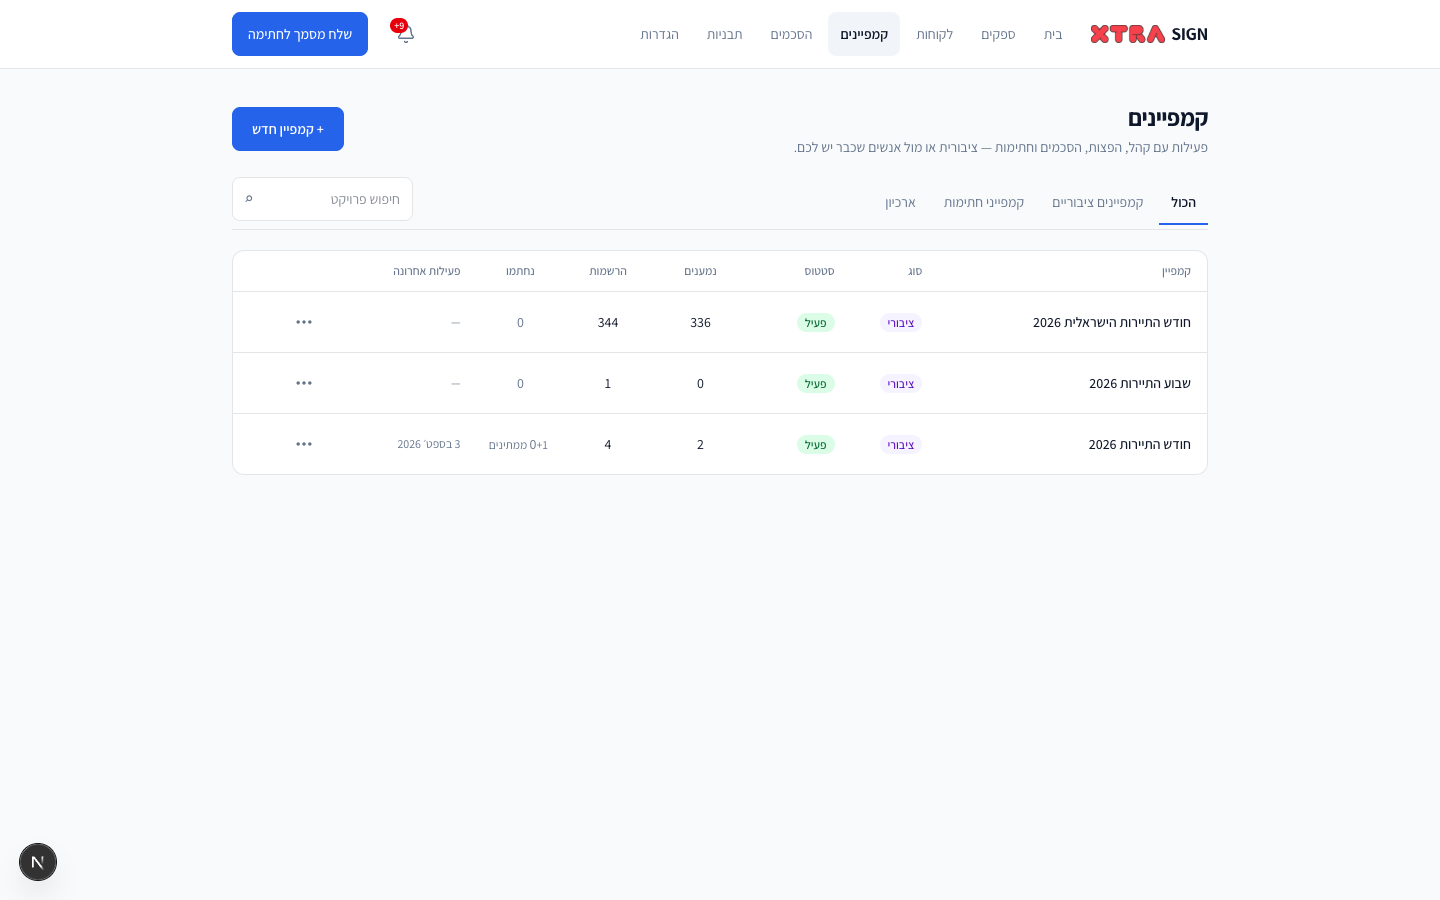
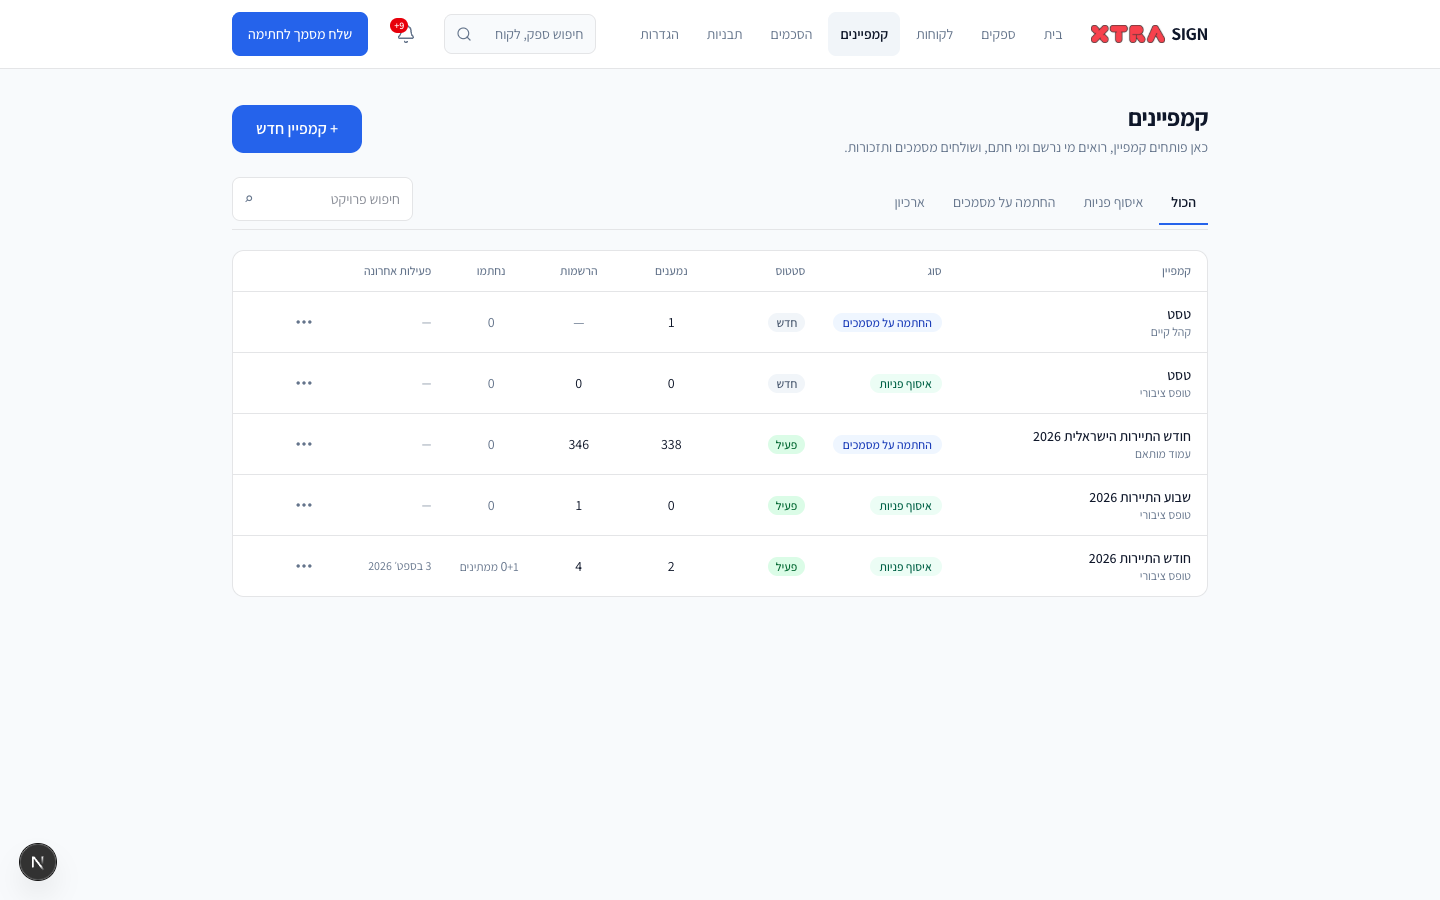
Campaign list search says campaign

diff --git a/src/components/projects/ProjectsSearch.tsx b/src/components/projects/ProjectsSearch.tsx
@@ -30,13 +30,13 @@ export function ProjectsSearch({ search, archived }: { search: string; archived:
   return (
     <div className="relative min-w-0 flex-1 sm:max-w-xs">
       <span aria-hidden="true" className="pointer-events-none absolute inset-y-0 end-3 flex items-center text-muted">⌕</span>
-      <label htmlFor="project-search" className="sr-only">חיפוש פרויקטים</label>
+      <label htmlFor="project-search" className="sr-only">חיפוש קמפייןים</label>
       <input
         id="project-search"
         type="search"
         value={value}
         onChange={(e) => setValue(e.target.value)}
-        placeholder="חיפוש פרויקט"
+        placeholder="חיפוש קמפיין"
         className="min-h-11 w-full rounded-lg border border-line bg-surface pe-9 ps-3 text-sm text-fg outline-none focus:border-brand"
       />
     </div>

diff --git a/scripts/qa/measure-overflow.ts b/scripts/qa/measure-overflow.ts
@@ -36,6 +36,7 @@ async function main() {
     }
     return { w, sw: document.documentElement.scrollWidth, bad: bad.slice(0, 15) }
   })
+  if (process.env.SHOT) await page.screenshot({ path: process.env.SHOT })
   console.log(JSON.stringify(out, null, 1))
   await browser.close()
 }
